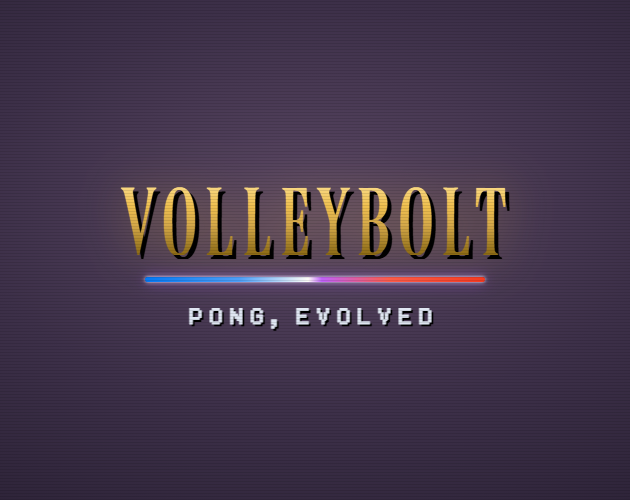
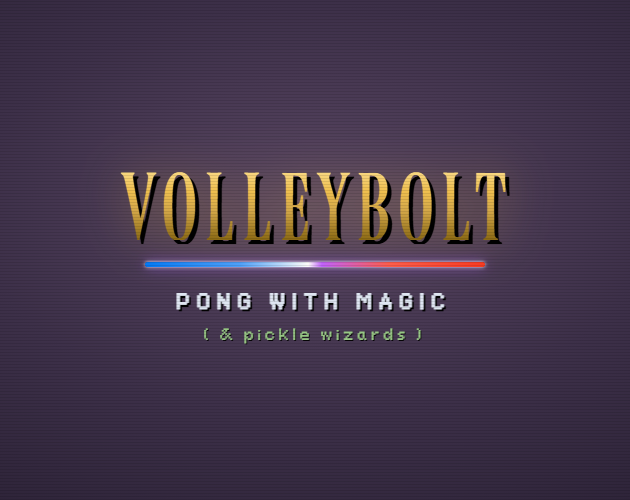
brand: cover to 'Pong with Magic (& pickle wizards)' — personality wink in pickle-green

Changed region(s): [[0.181, 0.33, 0.8143, 0.69]]

diff --git a/brand/cover-source.html b/brand/cover-source.html
@@ -38,11 +38,18 @@ html,body { width:630px; height:500px; overflow:hidden; }
   color:#dfe6f2; text-transform:uppercase;
   text-shadow:2px 2px 0 #000;
 }
+/* the wink: parenthetical aside, lowercase, muted, smaller — feels whispered */
+.aside {
+  font-family:'FF9UI', sans-serif; font-size:15px; letter-spacing:3px;
+  color:#9fd48a; margin-top:9px; opacity:0.92;
+  text-shadow:1px 1px 0 #000;
+}
 </style></head>
 <body>
   <div class="cover">
     <div class="title">VOLLEYBOLT</div>
     <div class="beam"></div>
-    <div class="tag">Pong, Evolved</div>
+    <div class="tag">Pong with Magic</div>
+    <div class="aside">( &amp; pickle wizards )</div>
   </div>
 </body></html>
